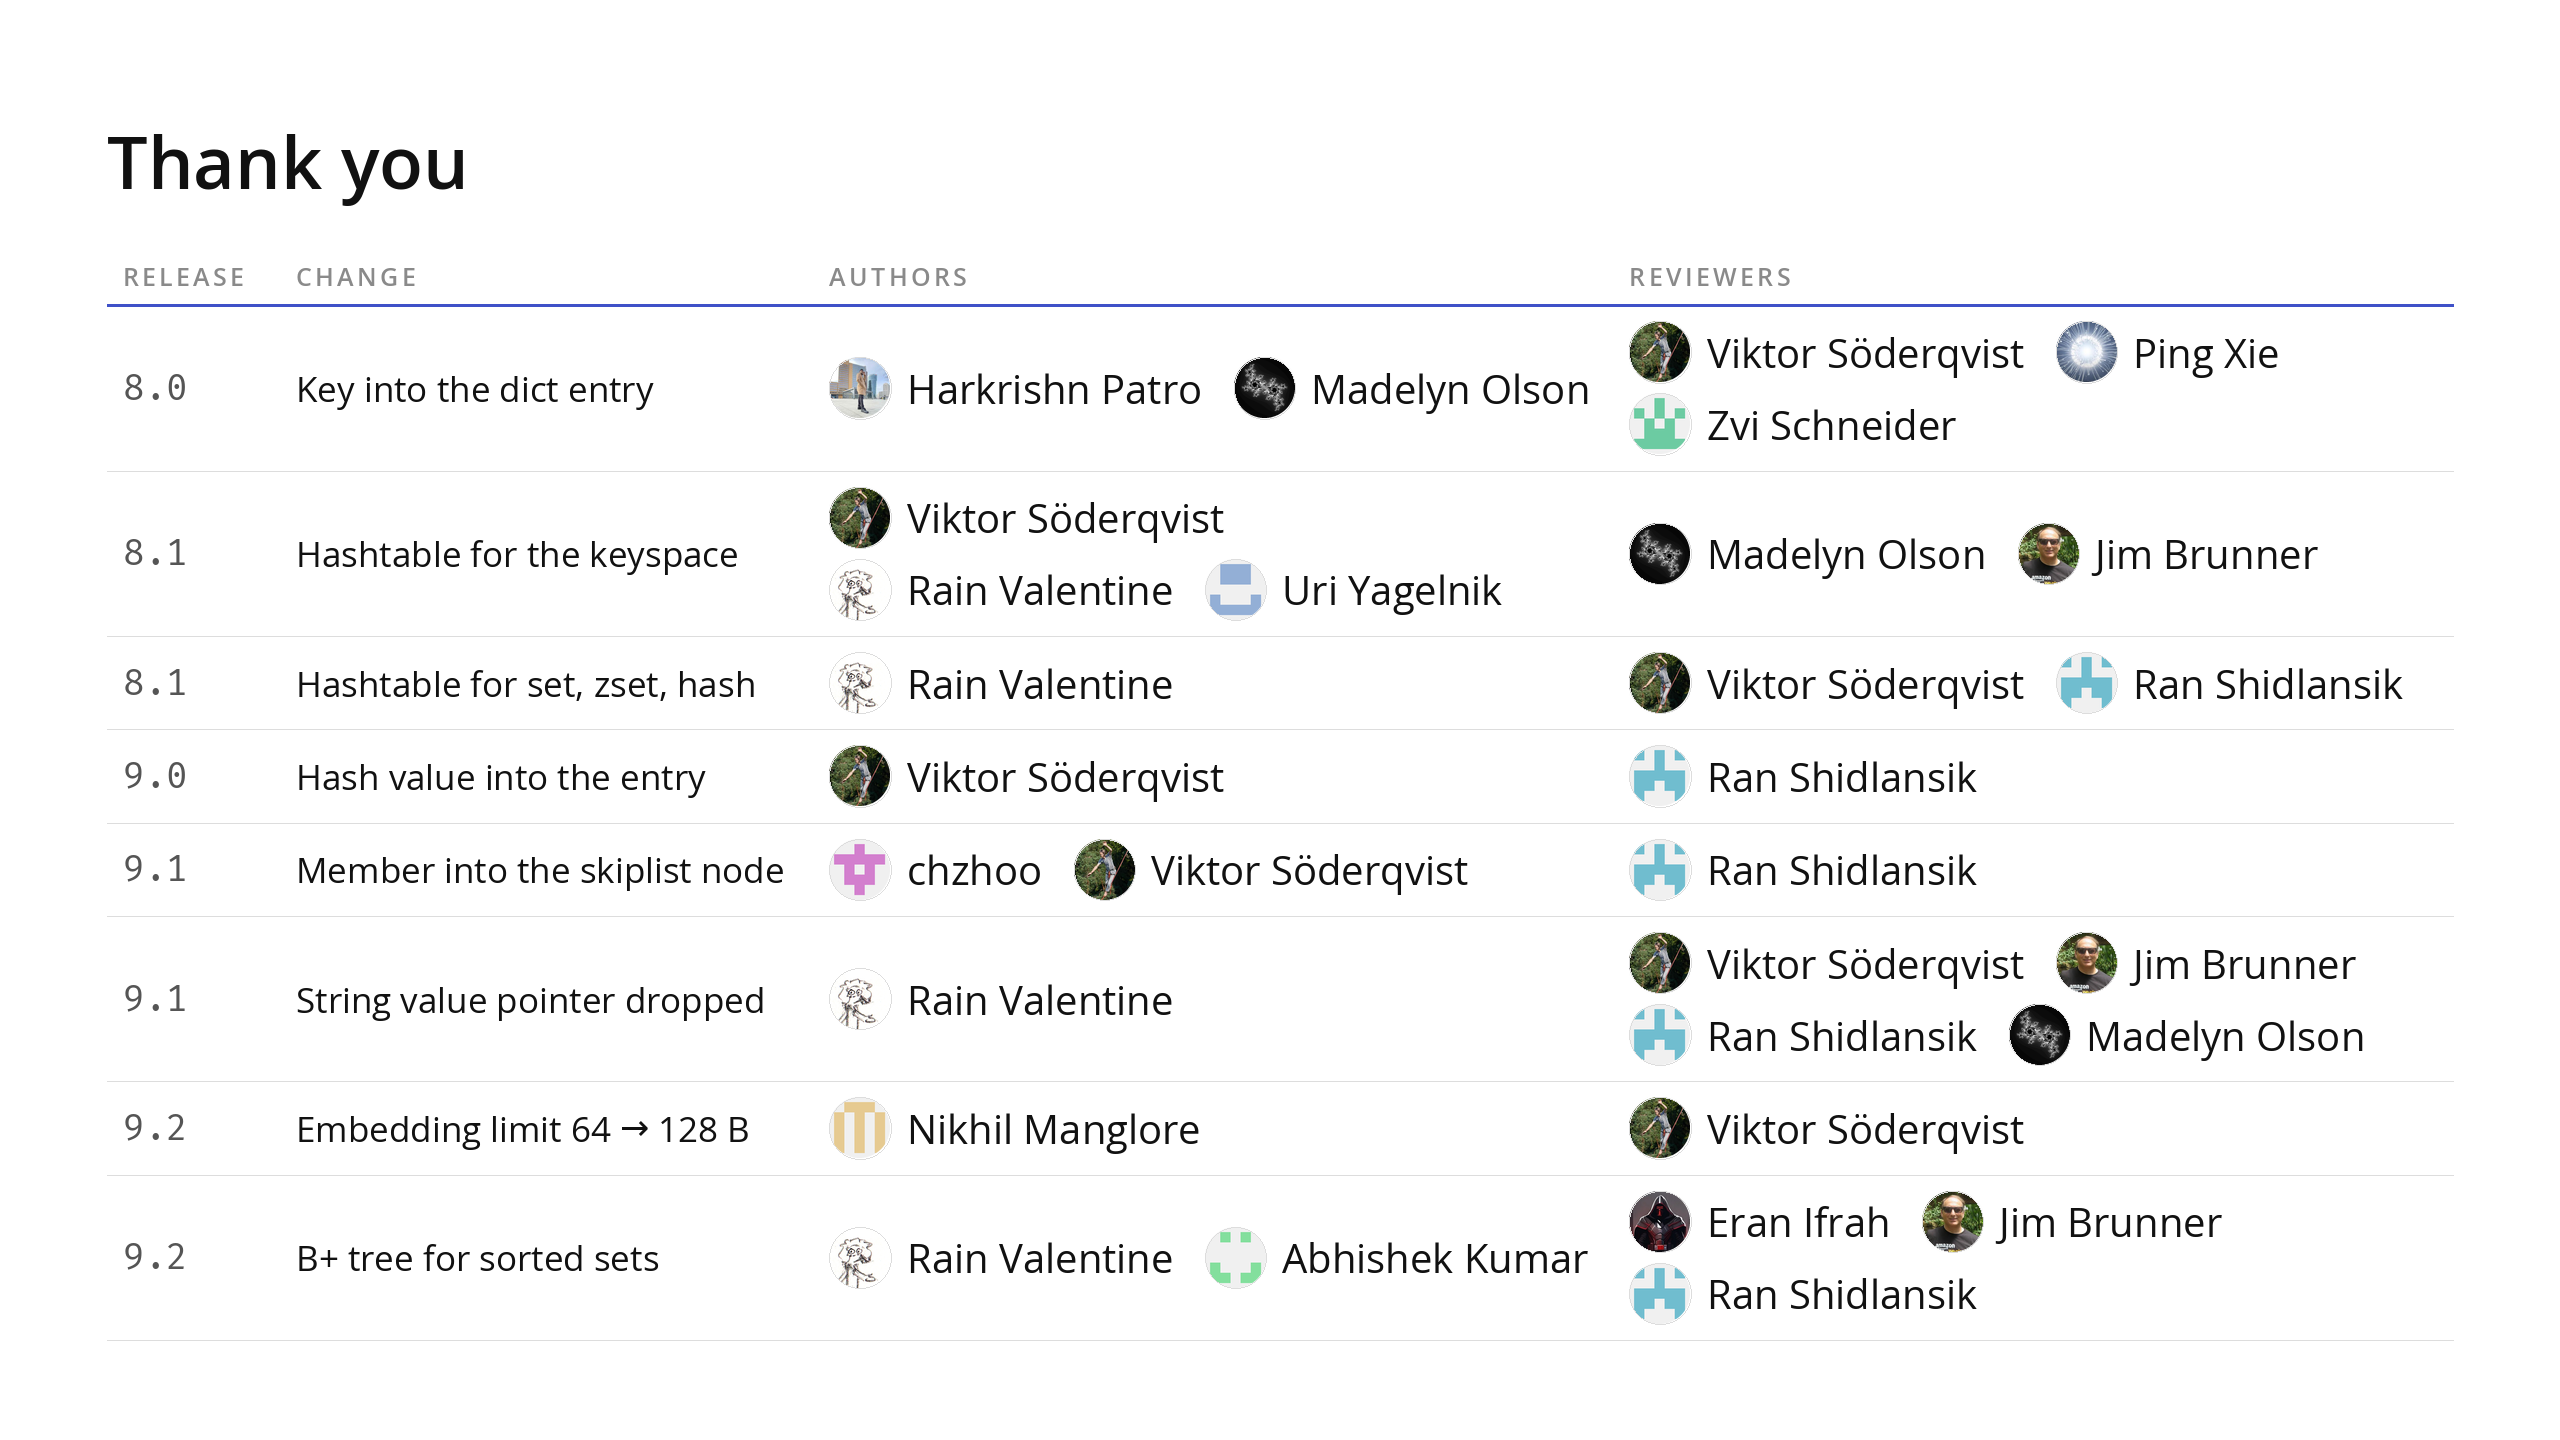
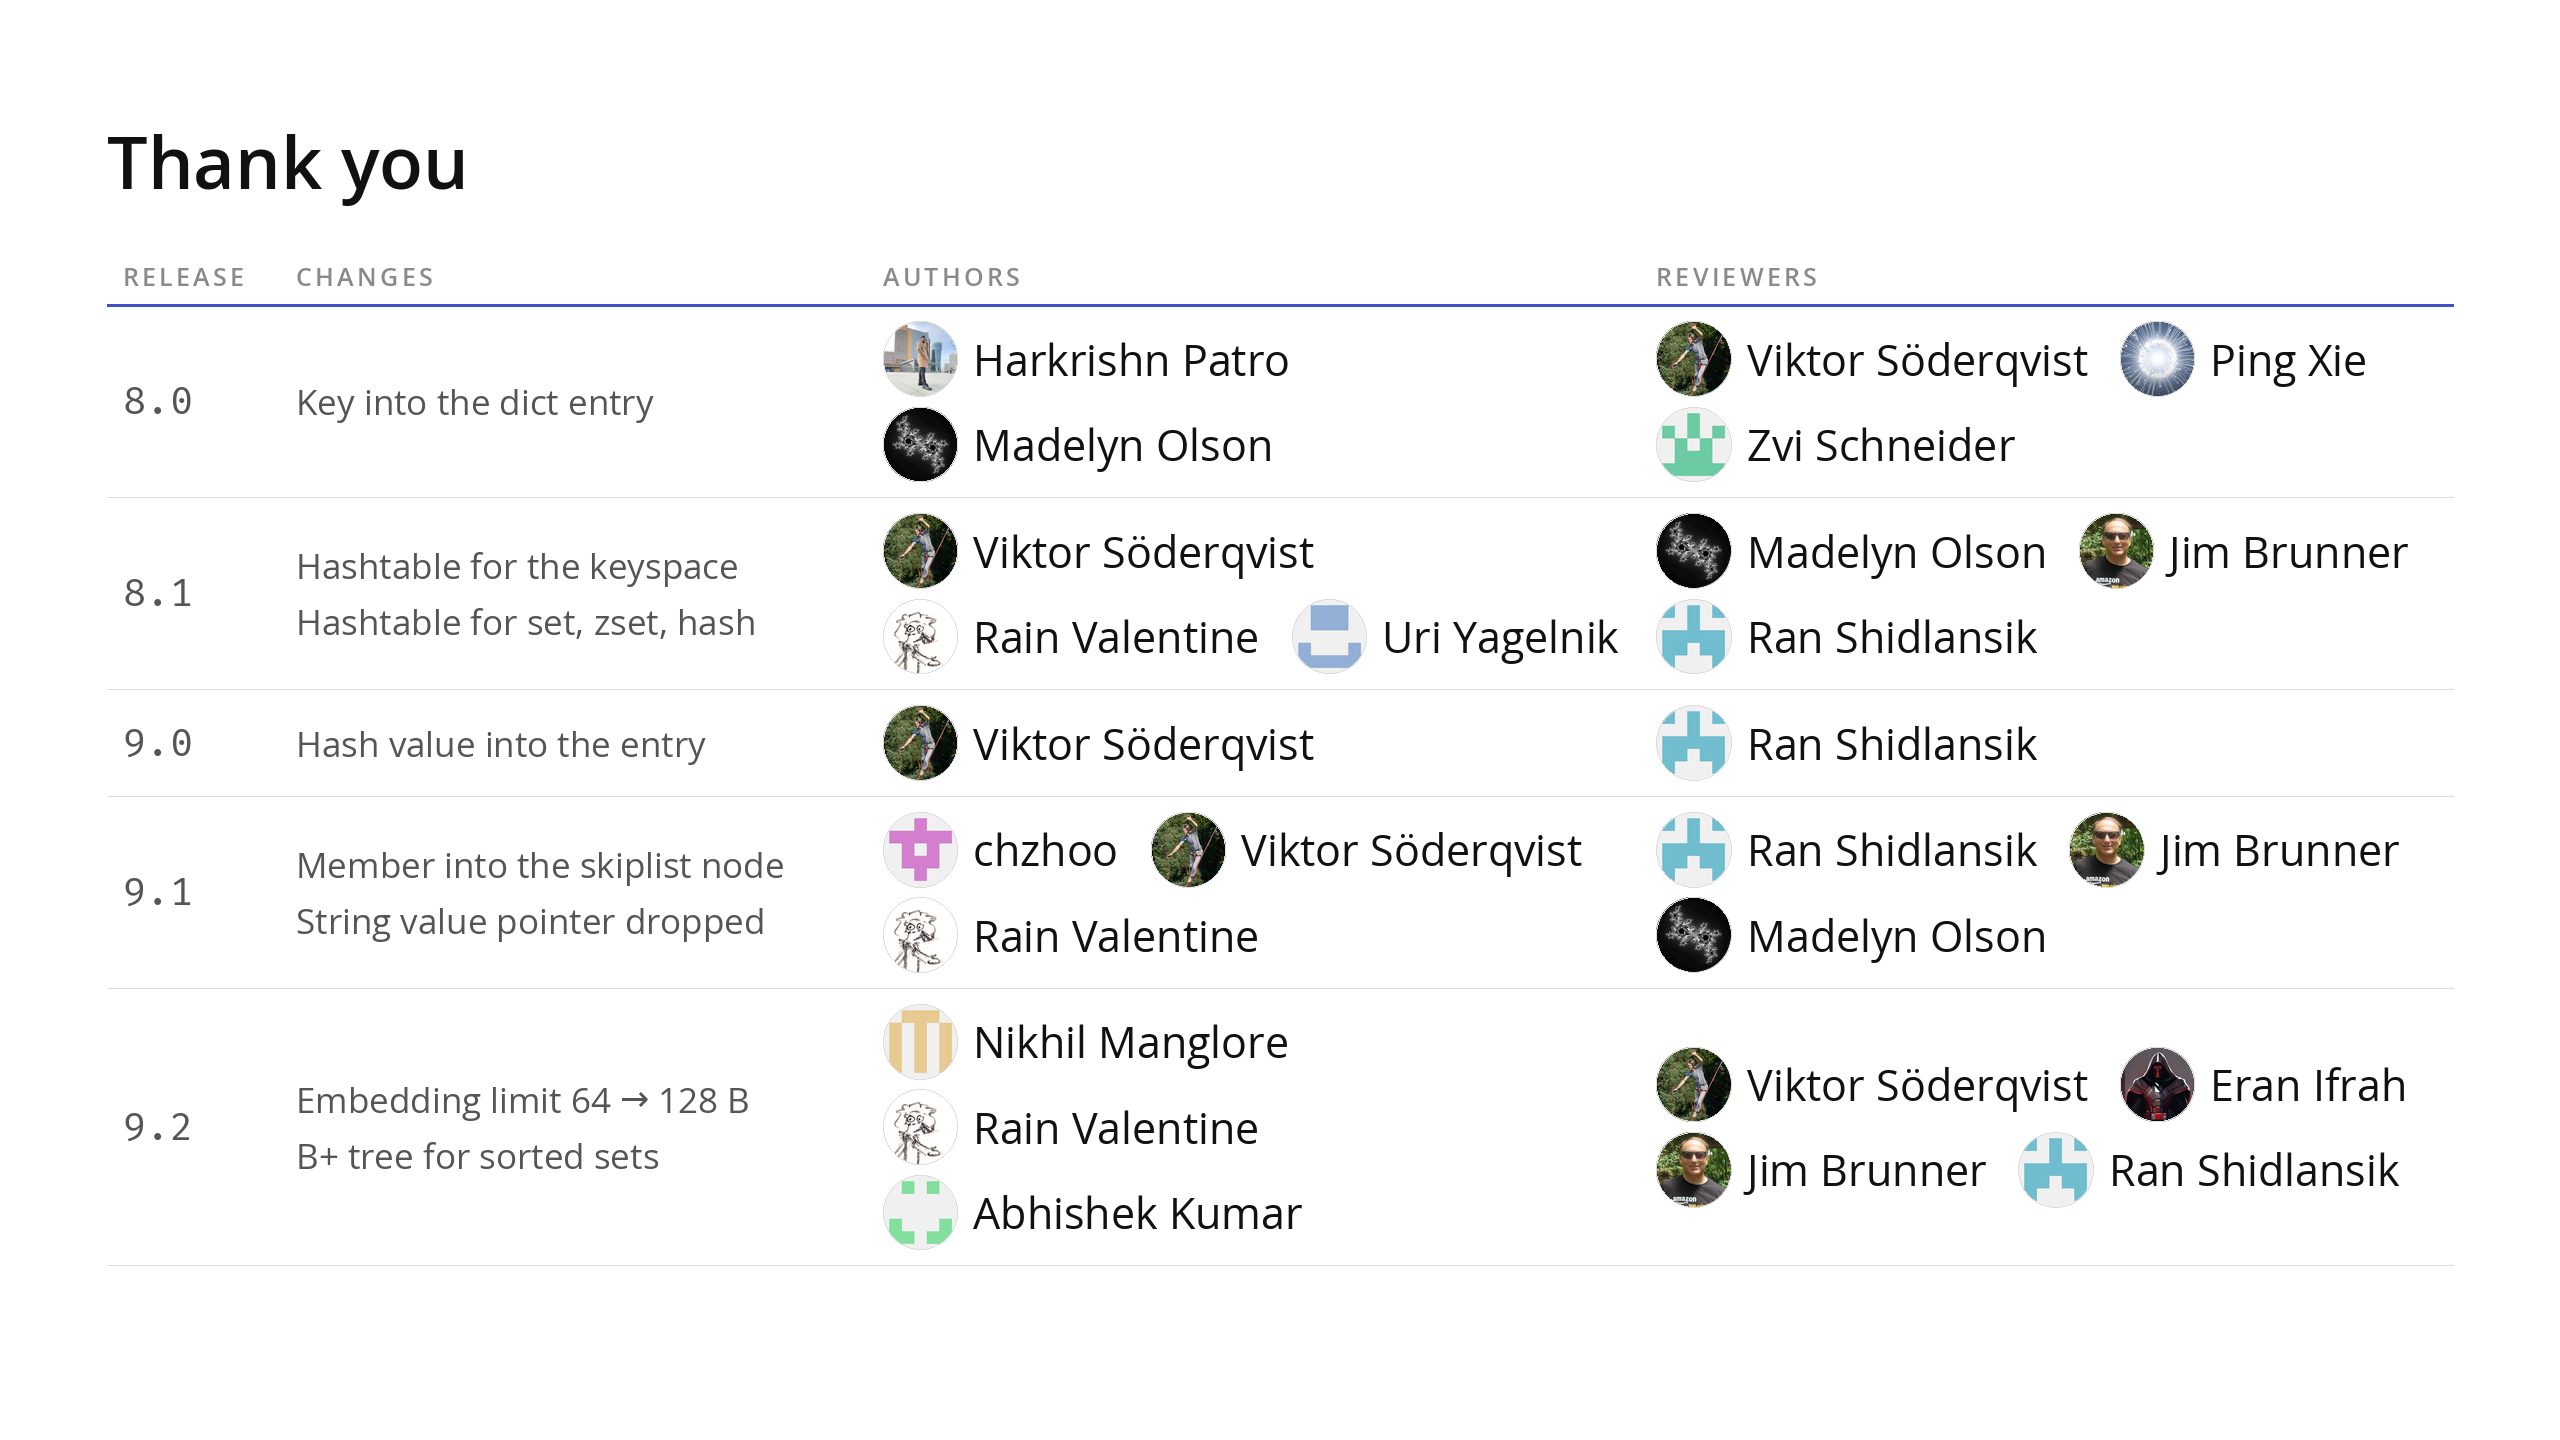
Credits: one row per release (Rain's pick)

diff --git a/makeover/credits.py b/makeover/credits.py
@@ -61,7 +61,7 @@ SHORT = {  # change column, kept to a few words: the PR numbers appeared on the 
 # design-unit geometry. MODE 'change': one row per contribution, Release | Change | Authors | Reviewers.
 # MODE 'release': one row per release, the changes stacked, names deduplicated across that release's PRs.
 # The PR numbers are not shown in either: nobody looks one up from a slide, and they were on the figure slides.
-MODE = 'change'
+MODE = 'release'
 X0, X1 = 80, 1840                       # side margins (the frame's own are 120)
 TABLE_TOP = 185
 if MODE == 'change':
